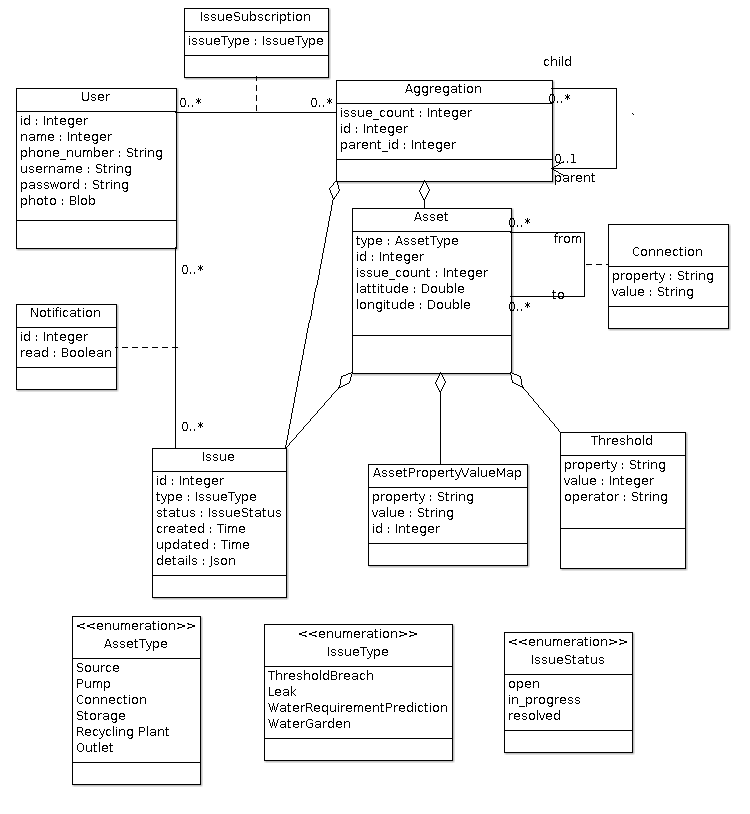
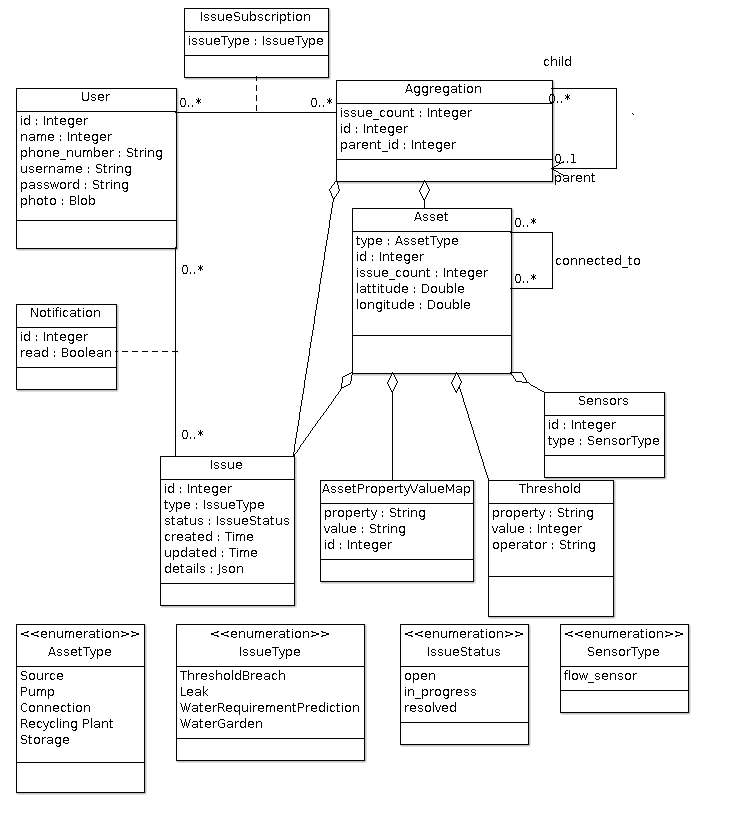
Files missed out in the last few commits

diff --git a/SWNBackend/src/dao/impl/SensorDAO.java b/SWNBackend/src/dao/impl/SensorDAO.java
@@ -1,0 +1,46 @@
+package dao.impl;
+
+import java.sql.Connection;
+import java.sql.PreparedStatement;
+import java.sql.ResultSet;
+import java.sql.SQLException;
+import java.util.LinkedList;
+import java.util.List;
+
+import utils.ConnectionPool;
+import model.Sensor;
+import model.SensorType;
+
+public class SensorDAO
+{
+	public List<Sensor> findByAssetId(int assetId)
+	{
+		List<Sensor> sensors = new LinkedList<>();
+		String query = "select id, type from sensors where asset_id = ?";
+		Connection connection = null;
+		PreparedStatement stmt = null;
+		try
+		{
+			connection = ConnectionPool.getConnection();
+			stmt = connection.prepareStatement(query);
+			stmt.setInt(1, assetId);
+			ResultSet resultSet = stmt.executeQuery();
+			while(resultSet.next())
+			{
+				int id = resultSet.getInt("id");
+				SensorType type = SensorType.getSensorType(resultSet.getString("type"));
+				sensors.add(new Sensor(id, type));
+			}
+		} catch (SQLException e)
+		{
+			// TODO Auto-generated catch block
+			e.printStackTrace();
+		}
+		finally
+		{
+			ConnectionPool.freeConnection(connection);
+		}
+		return sensors;
+	}
+
+}

diff --git a/SWNBackend/src/model/SensorType.java b/SWNBackend/src/model/SensorType.java
@@ -1,0 +1,29 @@
+package model;
+
+public enum SensorType
+{
+	FLOW_SENSOR("flow_sensor");
+	
+	private String label;
+	
+	SensorType(String label)
+	{
+		this.label = label;
+	}
+	
+	public String label()
+	{
+		return label;
+	}
+	
+	public static SensorType getSensorType(String type)
+	{
+		switch(type)
+		{
+		case "flow_sensor":
+			return FLOW_SENSOR;
+		default:
+			throw new RuntimeException("Unknown sensor type");
+		}
+	}
+}

diff --git a/SWNBackend/src/model/Sensor.java b/SWNBackend/src/model/Sensor.java
@@ -1,0 +1,31 @@
+package model;
+
+public class Sensor
+{
+	private int id;
+	private SensorType type;
+	
+	public Sensor(int id, SensorType type)
+	{
+		super();
+		this.id = id;
+		this.type = type;
+	}
+	public int getId()
+	{
+		return id;
+	}
+	public void setId(int id)
+	{
+		this.id = id;
+	}
+	public SensorType getType()
+	{
+		return type;
+	}
+	public void setType(SensorType type)
+	{
+		this.type = type;
+	}
+	
+}
